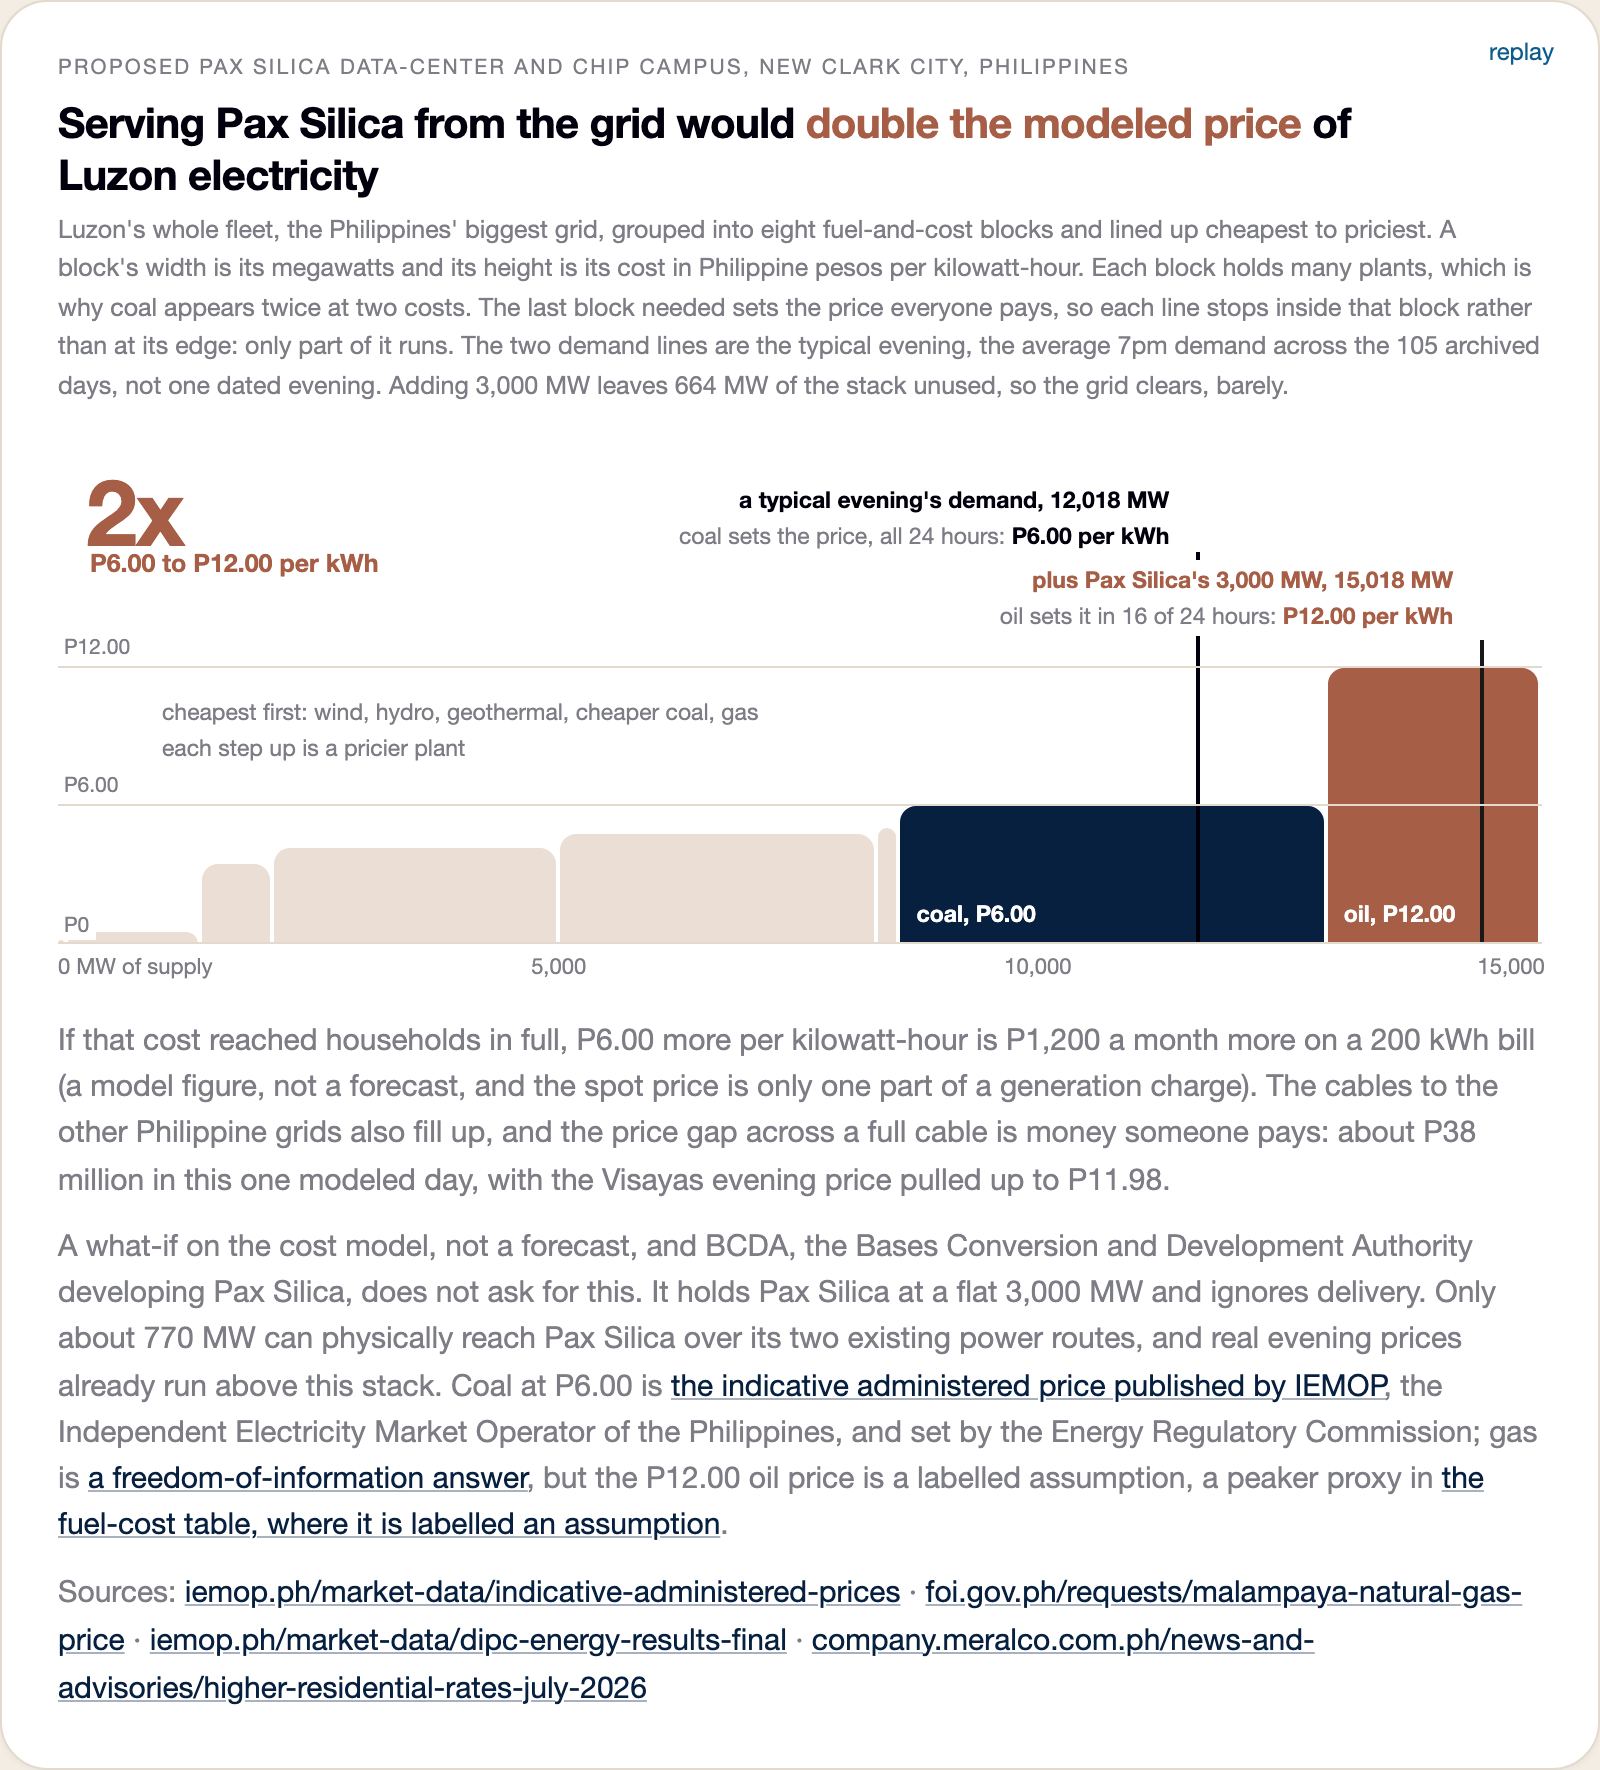
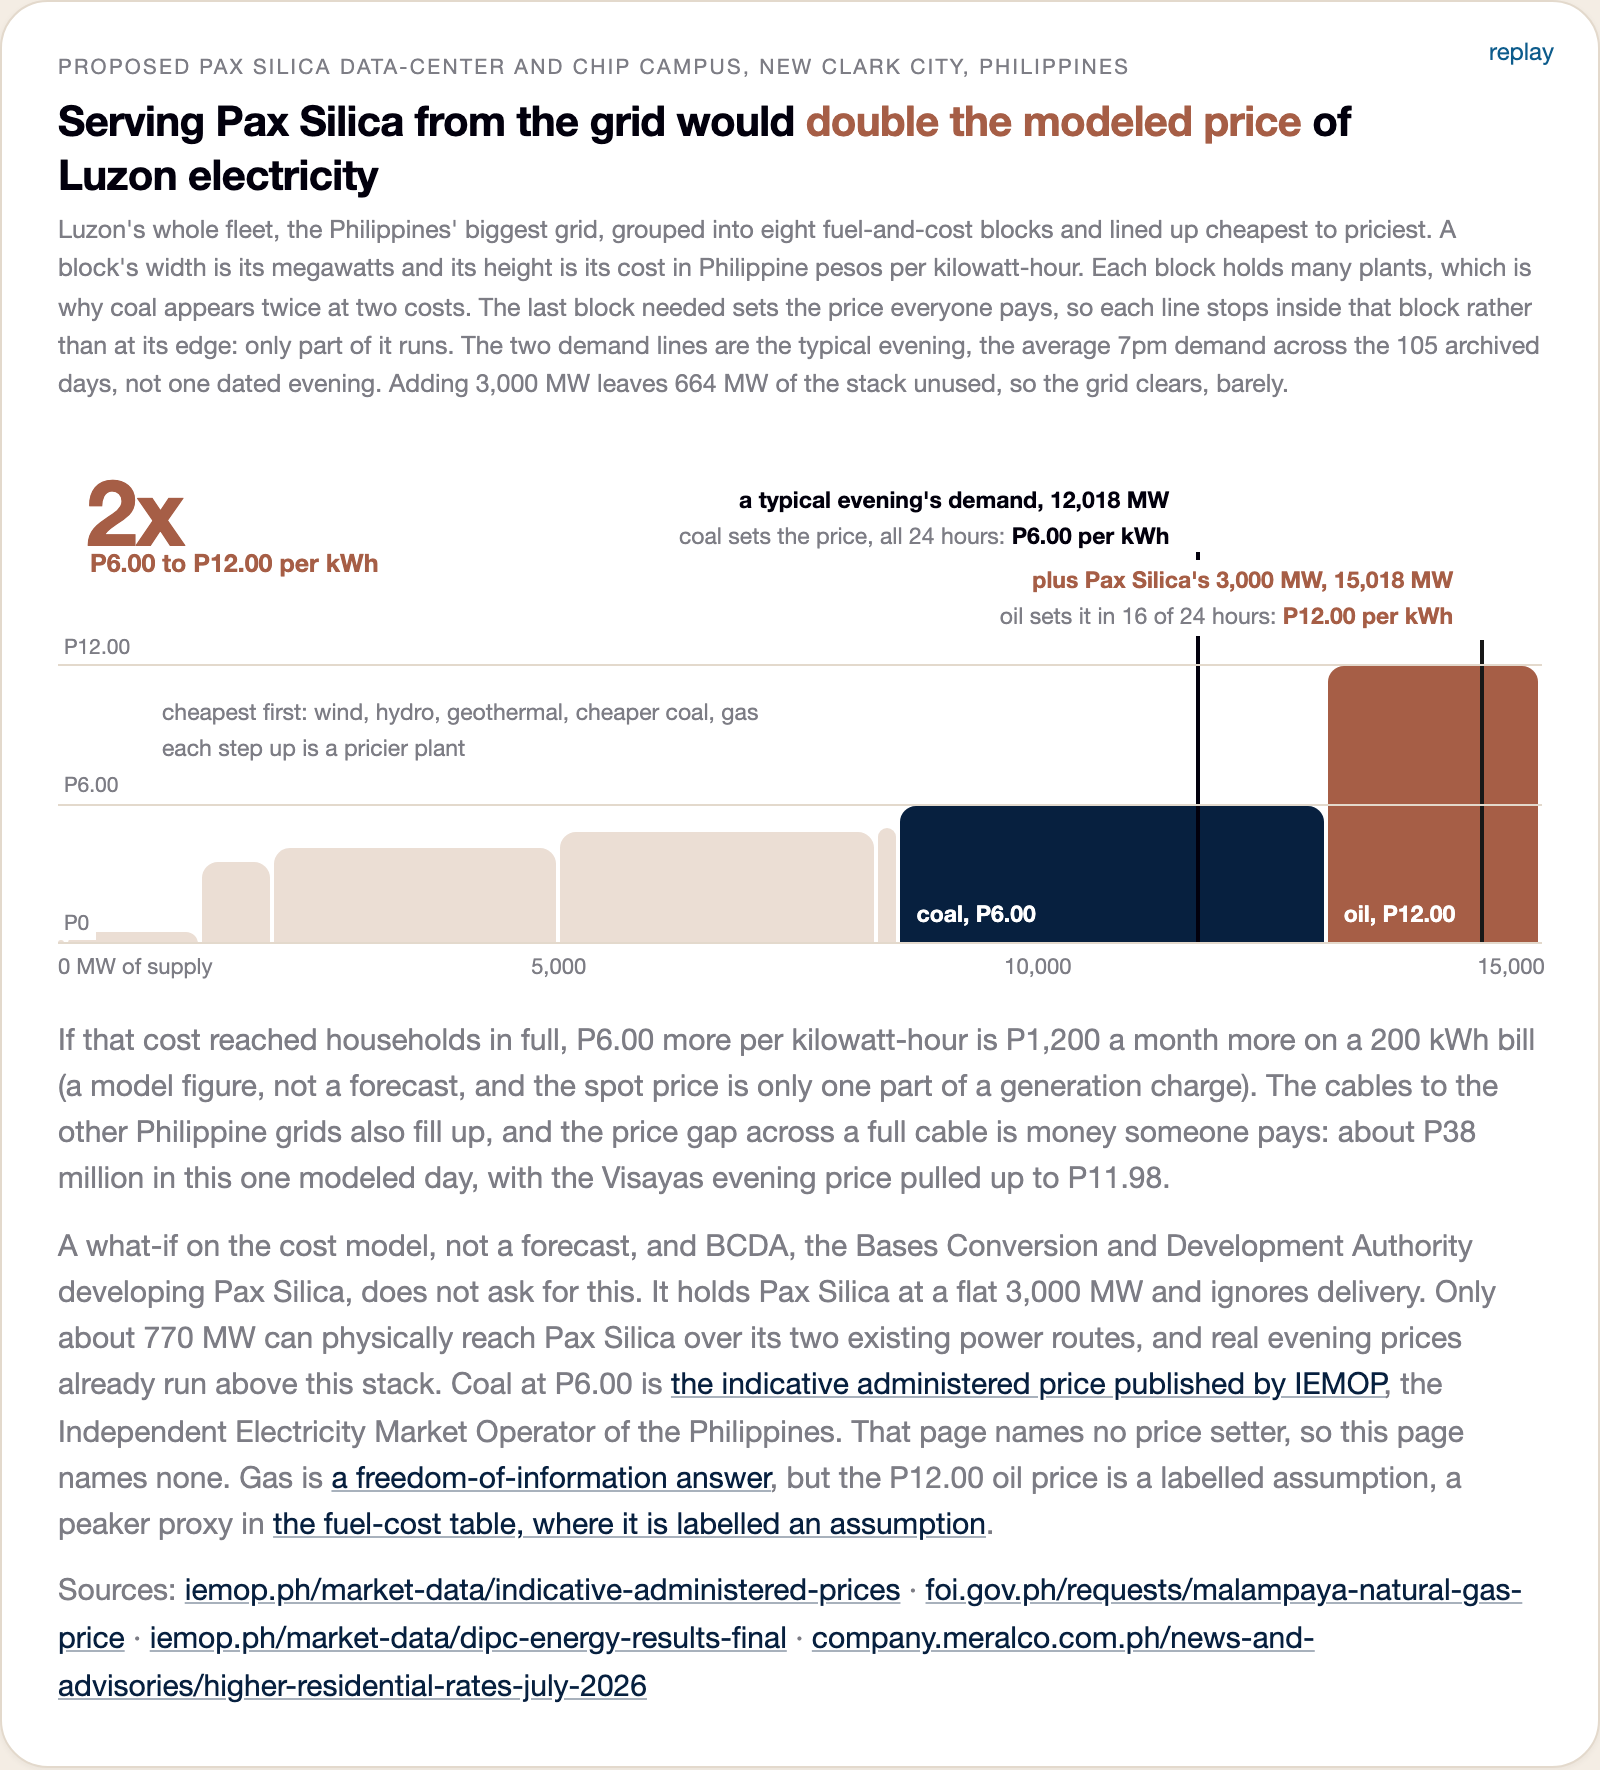
Name no price setter, because the page IEMOP publishes names none
The price card said the P6.00 coal cost was set by the Energy Regulatory
Commission and published by IEMOP. The IEMOP page it links carries neither
claim: it prints the indicative administered prices and says nothing about who
sets them. Attribute only what that page supports.

diff --git a/web/pax-silica.html b/web/pax-silica.html
@@ -464,8 +464,7 @@ everyone, in pesos per kilowatt-hour (kWh). This project's <a href="https://gith
 replays the same recorded day, 25 June 2026, with and without Pax Silica.
 Without it, coal sets the Luzon price in all 24 hours, at the administered coal cost of
 P6.00 per kWh (<a href="https://www.iemop.ph/market-data/indicative-administered-prices/">the
-indicative administered price IEMOP publishes</a>, set by the Energy Regulatory
-Commission). With it the price is P12.00 in all 24 hours, and oil is the plant
+indicative administered price IEMOP publishes</a>). With it the price is P12.00 in all 24 hours, and oil is the plant
 that sets it in 16 of those hours, with power pulled from the other island grids
 setting 6 and hydro setting 2. Not a spike at the evening peak. The whole day,
 doubled, for every buyer on the grid. The doubling is exactly P12.00 over P6.00,
@@ -501,8 +500,8 @@ claim: at P9.00 the same run reads 1.5 times, at P15.00 it reads 2.5.</p>
   run above this stack. Coal at P6.00 is
   <a href="https://www.iemop.ph/market-data/indicative-administered-prices/">the
   indicative administered price published by IEMOP</a>, the Independent
-  Electricity Market Operator of the Philippines, and set by the Energy
-  Regulatory Commission; gas is
+  Electricity Market Operator of the Philippines. That page names no price
+  setter, so this page names none. Gas is
   <a href="https://www.foi.gov.ph/requests/malampaya-natural-gas-price/">a freedom-of-information answer</a>, but the P12.00 oil
   price is a labelled assumption, a peaker proxy in
   <a href="https://github.com/xmpuspus/power-dispatch-studio/blob/main/pipeline/fleet_ph.py">the fuel-cost table, where it is labelled an assumption</a>.</p>
